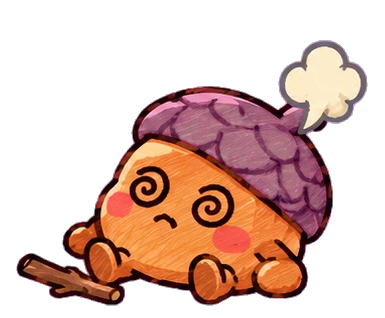
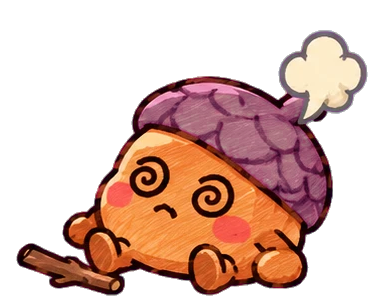
feat(art): two-legged Mochi, gear set 1, book 1 backgrounds; plan-A anchors
- Mochi v0.5 sheets: poses, rig parts, faces, side-view torso, bare-hand
  attacks → assets/raw/frames/mochi2 (48 frames)
- gear set 1 (sword, shield, dagger, bow, staff, hat, scarf, bag) →
  assets/raw/frames/gear
- book 1 parallax backgrounds (sky, far hills, pencil-tree mid, ground):
  magenta keyed out, left/right made seamless → assets/raw/backgrounds
- design/art/anchors_mochi.json: per-frame head/paw anchors + gear grip/size
  for plan A (full-body frames + gear on anchors); rig_mochi.json kept as the
  tested-but-stiff alternative
- slicer: --align feet (main body on the ground line, loose bits ignored);
  chapter 1 monsters/boss re-sliced so none float
- T-046 progress noted on card

Changed region(s): [[0.0312, 0.0877, 0.9662, 0.9643], [0.4052, 0.7597, 0.4364, 0.789]]

diff --git a/tools/sprite_slicer/slice_sheet.py b/tools/sprite_slicer/slice_sheet.py
@@ -10,6 +10,9 @@ All frames of one sheet are written on the same canvas size:
   --align ground   feet on a shared ground line; jumps keep their height
                    above the row's lowest feet (poses, monsters, pets)
   --align center   centred (rig parts, faces, icons)
+  --align feet     each frame's main body (largest blob) stands on the ground
+                   line; loose bits like motion lines or crumbs don't lift it
+                   (monsters — use ground for poses that jump)
 
 Usage:
   python3 -I tools/sprite_slicer/slice_sheet.py SHEET.png --cols 4 --rows 3 \
@@ -202,7 +205,7 @@ def main() -> int:
     p.add_argument("--rows", type=int, required=True)
     p.add_argument("--names", required=True, help="comma-separated, left→right, top→bottom")
     p.add_argument("--out", required=True)
-    p.add_argument("--align", choices=["ground", "center"], default="center")
+    p.add_argument("--align", choices=["ground", "center", "feet"], default="center")
     args = p.parse_args()
 
     names = [n.strip() for n in args.names.split(",") if n.strip()]
@@ -238,13 +241,26 @@ def main() -> int:
             ys, xs = np.nonzero(mine & band)
             mask = np.zeros_like(solid)
             mask[y0:y1] = mine
-            row_frames.append([names[r * args.cols + c], mask,
-                               y0 + ys.min(), y0 + ys.max() + 1, xs.min(), xs.max() + 1])
-        row_bottom = max(f[3] for f in row_frames)
-        frames += [f + [row_bottom] for f in row_frames]
+            fr = [names[r * args.cols + c], mask, y0 + ys.min(), y0 + ys.max() + 1, xs.min(), xs.max() + 1]
+            if args.align == "feet":
+                sub = (mine & band)[:, xs.min():xs.max() + 1]
+                labels, _ = label_components(sub)
+                ids, counts = np.unique(labels[sub], return_counts=True)
+                body = labels == ids[np.argmax(counts)]
+                fr.append(y0 + np.nonzero(body.any(axis=1))[0].max() + 1)  # feet
+            row_frames.append(fr)
+        if args.align == "feet":
+            frames += row_frames  # each frame carries its own feet line
+        else:
+            row_bottom = max(f[3] for f in row_frames)
+            frames += [f + [row_bottom] for f in row_frames]
 
     max_w = max(f[5] - f[4] for f in frames)
-    if args.align == "ground":
+    if args.align == "feet":
+        above = max(f[6] - f[2] for f in frames)              # art above the feet line
+        below = max(max(0, f[3] - f[6]) for f in frames)      # bits hanging below it
+        max_h = above + below
+    elif args.align == "ground":
         max_h = max(f[6] - f[2] for f in frames)  # tallest art incl. lift above ground
     else:
         max_h = max(f[3] - f[2] for f in frames)
@@ -257,7 +273,9 @@ def main() -> int:
         canvas = Image.new("RGBA", (cw, ch), (0, 0, 0, 0))
         w, h = x1 - x0, y1 - y0
         left = (cw - w) // 2
-        if args.align == "ground":
+        if args.align == "feet":
+            top = ch - PAD - below - (row_bottom - y0)  # row_bottom holds this frame's feet
+        elif args.align == "ground":
             top = ch - PAD - (row_bottom - y0)
         else:
             top = (ch - h) // 2
